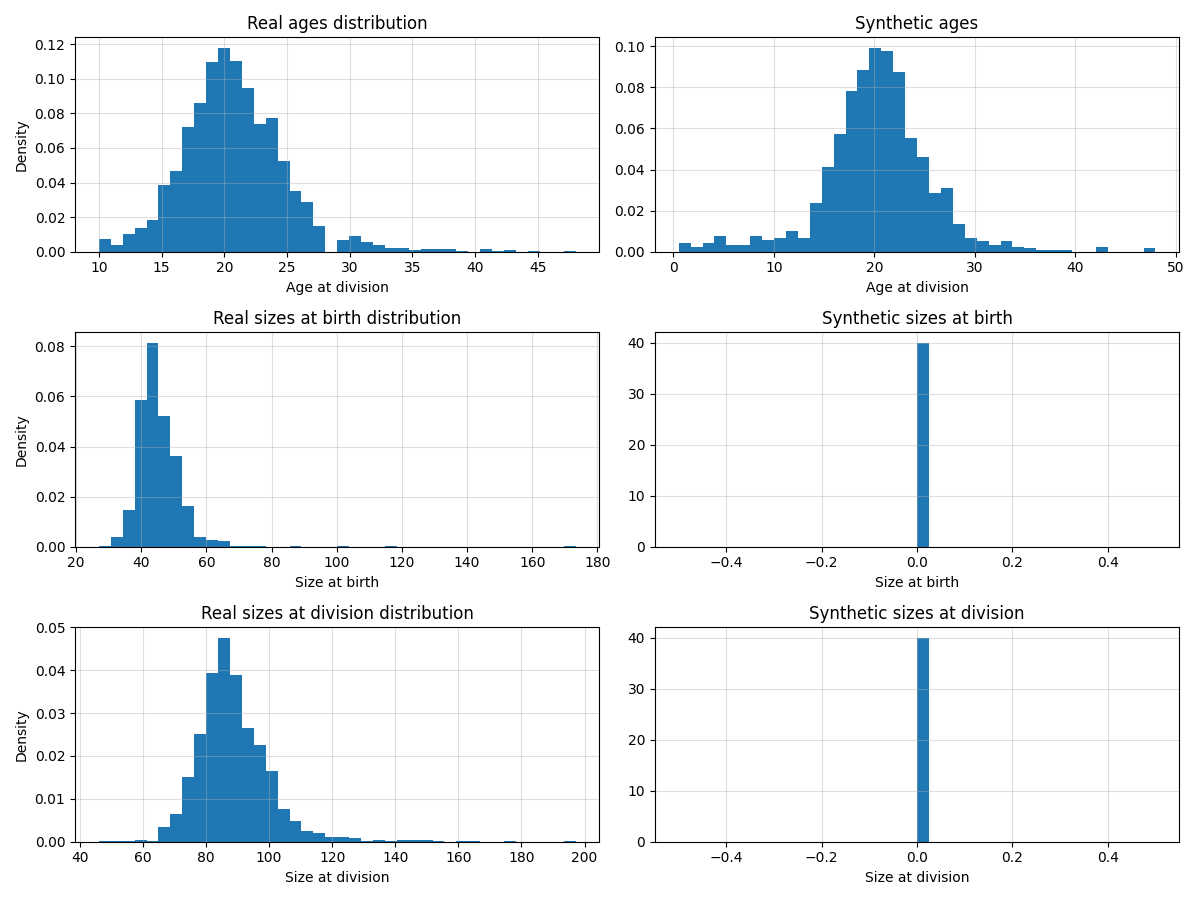
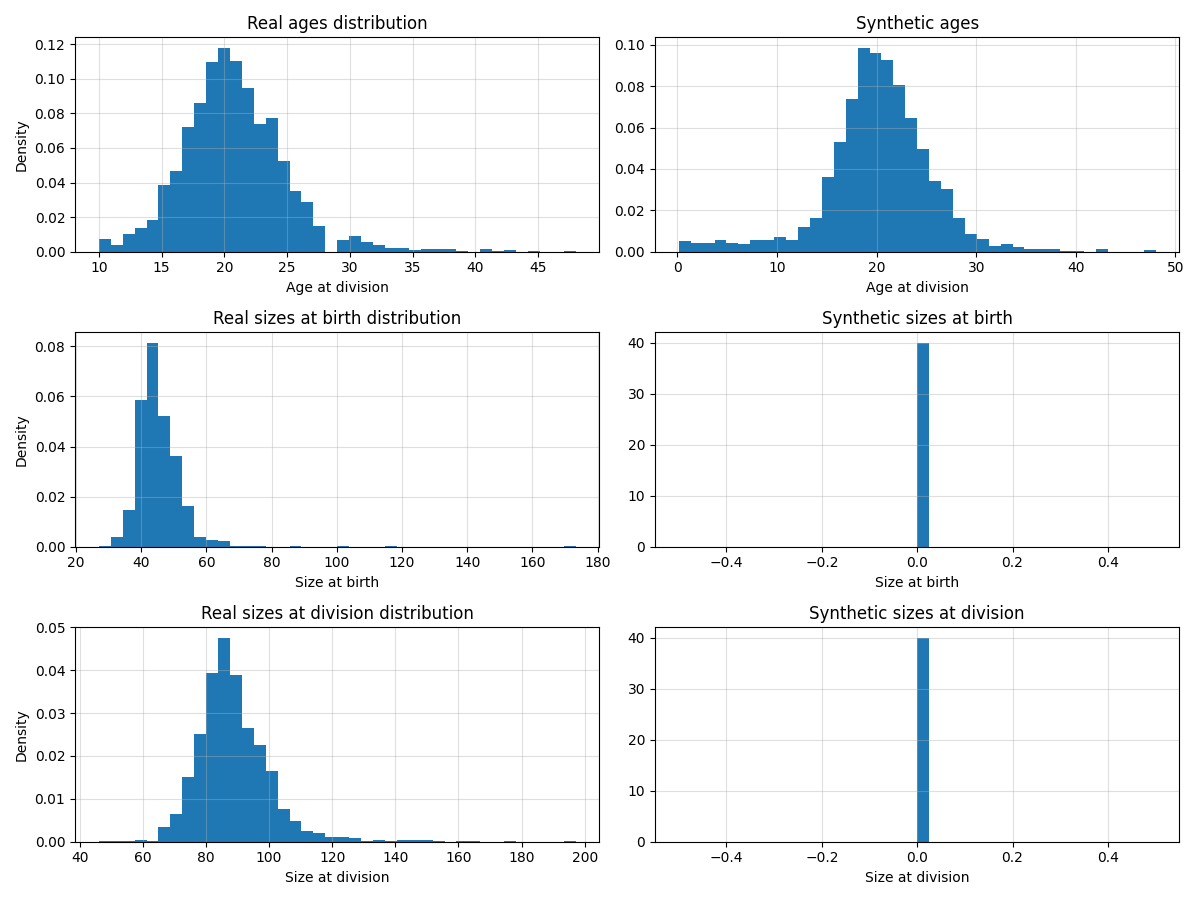
perfect division ratesgit add .

diff --git a/tmp_estimators.py b/tmp_estimators.py
@@ -10,7 +10,7 @@ from estimators import B_lineage_age, B_lineage_size
 
 # we want to optimize the kernel regression with cdf to minimize wasserstein distance.abs
 
-def grid_search_alpha(observations, estimator, alpha_grid, simulator, growth_rate, v_max, Xbar, age_or_size):
+def grid_search_alpha(observations, estimator, alpha_grid, simulator, growth_rate, v_max, Xbar, age_or_size, burn_in):
     obs = np.asarray(observations)
     results=[]
     best_alpha=None
@@ -19,7 +19,7 @@ def grid_search_alpha(observations, estimator, alpha_grid, simulator, growth_rat
         np.random.seed(42) #same randomness for all samples
         B_hat = estimator(obs, alpha)[1] #[1] for function instead of np.array
         index = 0 if age_or_size=="age" else 2
-        simulated_data = simulator(Xbar=Xbar, v_max=v_max, B_func=B_hat, growth_rate=growth_rate, num_samples=len(obs), burn_in=1000)[1000:,index]
+        simulated_data = simulator(Xbar=Xbar, v_max=v_max, B_func=B_hat, growth_rate=growth_rate, num_samples=len(obs), burn_in=burn_in)[:,index]
         dist = wasserstein_distance(obs, simulated_data) 
         results.append(dist)
 
@@ -35,7 +35,7 @@ def grid_search_alpha(observations, estimator, alpha_grid, simulator, growth_rat
 
 if __name__ == "__main__":
 
-    test_age = False
+    test_age = True
     test_size = True
 
     PATH_LIN = "data/lin_Lydia2901_new_MDJ_ad_sb_sd.txt"
@@ -48,19 +48,19 @@ if __name__ == "__main__":
     x_max = np.max(real_Xd) 
 
     growth_rate = 0.032 #according to regression
-    alpha_grid = np.linspace(0.01, 2, 101)
+    alpha_grid = np.linspace(0.01, 20, 101)
 
-    burn_in = 200
+    burn_in = 1000
 
 
     if test_age:
         #  (we can add the other plots to compare all the distributions!!)
-        best_alpha, dist_hist, Best_B_hat = grid_search_alpha(real_A, B_lineage_age, alpha_grid, simulate_lineage_age, growth_rate, a_max, Xbar, "age")
+        best_alpha, dist_hist, Best_B_hat = grid_search_alpha(real_A, B_lineage_age, alpha_grid, simulate_lineage_age, growth_rate, a_max, Xbar, "age", burn_in)
         output_path = "7_kernel_lineage_age.png"
         plot_main_results(alpha_grid, dist_hist, best_alpha, real_A, Best_B_hat, output_path, "age")
         
         np.random.seed(42)
-        synthetic_data = simulate_lineage_age(Xbar, a_max, Best_B_hat, growth_rate, 2000, burn_in=burn_in)[burn_in:,:]
+        synthetic_data = simulate_lineage_age(Xbar, a_max, Best_B_hat, growth_rate, 2000, burn_in=burn_in)      
         synthetic_A = synthetic_data[:,0]
         synthetic_Xb = synthetic_data[:,1]
         synthetic_Xd = synthetic_data[:,2]
@@ -81,12 +81,12 @@ if __name__ == "__main__":
     
 
     if test_size:
-        best_alpha, dist_hist, Best_B_hat = grid_search_alpha(real_Xb, B_lineage_size, alpha_grid, simulate_lineage_size, growth_rate, x_max, Xbar, "size")
+        best_alpha, dist_hist, Best_B_hat = grid_search_alpha(real_Xb, B_lineage_size, alpha_grid, simulate_lineage_size, growth_rate, x_max, Xbar, "size", burn_in)
         output_path = "7_kernel_lineage_size.png"
         plot_main_results(alpha_grid, dist_hist, best_alpha, real_Xb, Best_B_hat, output_path, "size")
         
         np.random.seed(42)
-        synthetic_size_data = simulate_lineage_size(Xbar, Best_B_hat, growth_rate, 2000, x_max, burn_in=burn_in)[burn_in:,:]
+        synthetic_size_data = simulate_lineage_size(Xbar, Best_B_hat, growth_rate, 2000, x_max, burn_in=burn_in)
         synthetic_A = synthetic_size_data[:,0]
         synthetic_Xb = synthetic_size_data[:,1]
         synthetic_Xd = synthetic_size_data[:,2]
